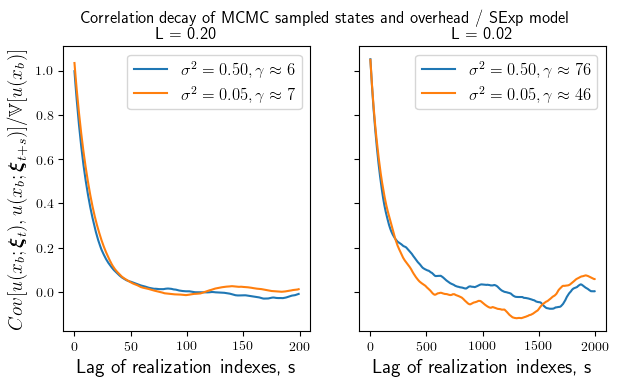
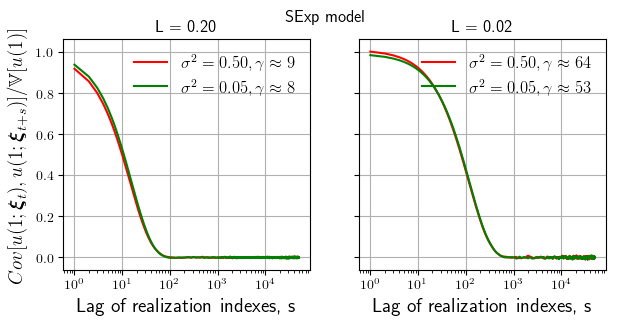
first-commit

diff --git a/examples/example02_solver_mcmc_overhead_ergodic_plot.py b/examples/example02_solver_mcmc_overhead_ergodic_plot.py
@@ -43,23 +43,36 @@ def load_u_xb(sig2, L, model, smp_type):
       return False, False
 
 
-def plot(cov_u_xb_mcmc, cov_u_xb_mc, model):
-  fig, ax = pl.subplots(1, 2, figsize=(7, 3.7), sharey=True)
-  fig.suptitle("Correlation decay of MCMC sampled states and overhead / %s model" %model)
+def plot(cov_u_xb_mcmc, cov_u_xb_mc, ratio, model, fig_ext=".png"):
+  fig, ax = pl.subplots(1, 2, figsize=(7, 3.), sharey=True)
+  fig.suptitle("%s model" %model)
+
   ax[0].set_title("L = 0.20")
-  gamma = .23*(cov_u_xb_mcmc[(0.5, 0.20)][0]+2*np.sum(cov_u_xb_mcmc[(0.5, 0.20)][1:200]))/cov_u_xb_mc[(0.5, 0.20)][0]
-  ax[0].plot(cov_u_xb_mcmc[(0.5, 0.20)][:200]/cov_u_xb_mc[(0.5, 0.20)][0], label=r"$\sigma^2 = 0.50, \gamma\approx %d$" %gamma)
-  gamma = .23*(cov_u_xb_mcmc[(0.05, 0.20)][0]+2*np.sum(cov_u_xb_mcmc[(0.05, 0.20)][1:200]))/cov_u_xb_mc[(0.05, 0.20)][0]
-  ax[0].plot(cov_u_xb_mcmc[(0.05, 0.20)][:200]/cov_u_xb_mc[(0.05, 0.20)][0], label=r"$\sigma^2 = 0.05, \gamma\approx %d$" %gamma)
+  s0 = 50000
+  _case = (0.5, 0.20)
+  gamma = ratio[_case]*(cov_u_xb_mcmc[_case][0]+2*np.sum(cov_u_xb_mcmc[_case][1:s0]))/cov_u_xb_mc[_case][0]
+  ax[0].semilogx(cov_u_xb_mcmc[_case][:s0]/cov_u_xb_mc[_case][0], "r", label=r"$\sigma^2 = 0.50, \gamma\approx %d$" %gamma)
+  _case = (0.05, 0.20)
+  gamma = ratio[_case]*(cov_u_xb_mcmc[_case][0]+2*np.sum(cov_u_xb_mcmc[_case][1:s0]))/cov_u_xb_mc[_case][0]
+  ax[0].semilogx(cov_u_xb_mcmc[_case][:s0]/cov_u_xb_mc[_case][0], "g", label=r"$\sigma^2 = 0.05, \gamma\approx %d$" %gamma)
 
   ax[1].set_title("L = 0.02")
-  gamma = .23*(cov_u_xb_mcmc[(0.5, 0.02)][0]+2*np.sum(cov_u_xb_mcmc[(0.5, 0.02)][1:2000]))/cov_u_xb_mc[(0.5, 0.02)][0]
-  ax[1].plot(cov_u_xb_mcmc[(0.5, 0.02)][:2000]/cov_u_xb_mc[(0.5, 0.02)][0], label=r"$\sigma^2 = 0.50, \gamma\approx %d$" %gamma)
-  gamma = .23*(cov_u_xb_mcmc[(0.05, 0.02)][0]+2*np.sum(cov_u_xb_mcmc[(0.05, 0.02)][1:2000]))/cov_u_xb_mc[(0.05, 0.02)][0]
-  ax[1].plot(cov_u_xb_mcmc[(0.05, 0.02)][:2000]/cov_u_xb_mc[(0.05, 0.02)][0], label=r"$\sigma^2 = 0.05, \gamma\approx %d$" %gamma)
-  ax[0].legend(), ax[1].legend()
-  
-  ax[0].set_ylabel(r"$Cov[u(x_b;\boldsymbol{\xi}_t), u(x_b;\boldsymbol{\xi}_{t+s})]/\mathbb{V}[u(x_b)]$")
-  ax[0].set_xlabel("Lag of realization indexes, s"); ax[1].set_xlabel("Lag of realization indexes, s")
-  pl.savefig(figures_path+"solver_mcmc_overhead_ergodic_%s.png" %model, bbox_inches='tight')
+  s0 = 50000
+  _case = (0.5, 0.02)
+  gamma = ratio[_case]*(cov_u_xb_mcmc[_case][0]+2*np.sum(cov_u_xb_mcmc[_case][1:s0]))/cov_u_xb_mc[_case][0]
+  ax[1].semilogx(cov_u_xb_mcmc[_case][:s0]/cov_u_xb_mc[_case][0], "r", label=r"$\sigma^2 = 0.50, \gamma\approx %d$" %gamma)
+  _case = (0.05, 0.02)
+  gamma = ratio[_case]*(cov_u_xb_mcmc[_case][0]+2*np.sum(cov_u_xb_mcmc[_case][1:s0]))/cov_u_xb_mc[_case][0]
+  ax[1].semilogx(cov_u_xb_mcmc[_case][:s0]/cov_u_xb_mc[_case][0], "g", label=r"$\sigma^2 = 0.05, \gamma\approx %d$" %gamma)
 
+  ax[0].legend(frameon=False), ax[1].legend(frameon=False)
+  ax[0].grid(), ax[1].grid()
+  if (model == "SExp"):
+    #ax[0].set_ylabel(r"$Cov[u(x_b;\boldsymbol{\xi}_t), u(x_b;\boldsymbol{\xi}_{t+s})]/\mathbb{V}[u(x_b)]$")
+    ax[0].set_ylabel(r"$Cov[u(1;\boldsymbol{\xi}_t), u(1;\boldsymbol{\xi}_{t+s})]/\mathbb{V}[u(1)]$")
+  else:
+    for ticklabel in ax[0].get_ymajorticklabels():
+      ticklabel.set_visible(False)
+      ticklabel.set_fontsize(0.0)
+  ax[0].set_xlabel("Lag of realization indexes, s"); ax[1].set_xlabel("Lag of realization indexes, s")
+  pl.savefig(figures_path+"solver_mcmc_overhead_ergodic_%s%s" %(model, fig_ext), bbox_inches='tight')

diff --git a/examples/example02_solver_mcmc_overhead_ergodic.py b/examples/example02_solver_mcmc_overhead_ergodic.py
@@ -5,11 +5,11 @@ import numpy as np
 from example02_solver_mcmc_overhead_ergodic_plot import *
 
 nEl = 1000
-nsmp_mcmc = 100000
-nsmp_mc = 10000
+nsmp_mcmc = 10000000
+nsmp_mc = 100000
 
 case = 2
-model = "SExp"
+model = "Exp"
 
 prms = [{"sig2":0.05, "L":0.02}, {"sig2":0.50, "L":0.02}, 
         {"sig2":0.05, "L":0.20}, {"sig2":0.50, "L":0.20}]
@@ -61,4 +61,4 @@ for case in range(4):
   fft_u_xb = np.fft.fft(u_xb_mcmc[_case]-u_xb_mcmc[_case].mean())
   cov_u_xb_mcmc[_case] = np.real(np.fft.ifft(fft_u_xb*np.conjugate(fft_u_xb))/nsmp_mcmc)
 
-plot(cov_u_xb_mcmc, cov_u_xb_mc, "SExp") 
+plot(cov_u_xb_mcmc, cov_u_xb_mc, ratio, model, fig_ext=".eps") 
